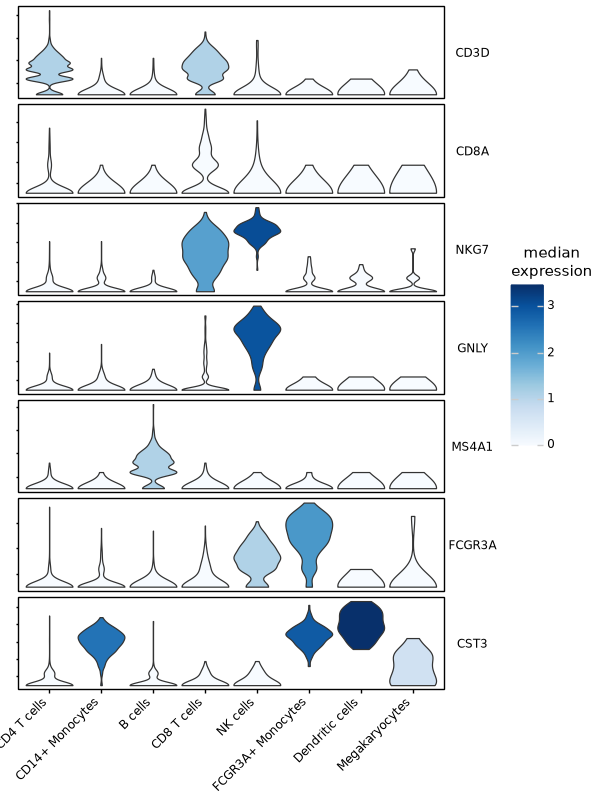
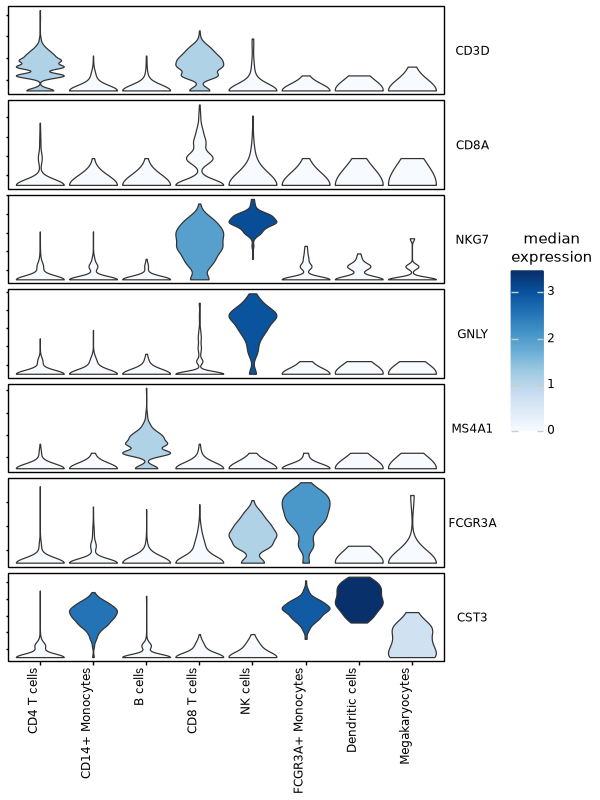
fix(stacked violin): vertical group labels by default so the first label is never clipped; state the swap_axes layout
- default rotation 90 (as in Scanpy); test asserts the first x label is inside the canvas
- docstring, changelog and decisions.md now say genes-as-rows is Scanpy's swap_axes=True layout
- regenerated docs/images/stacked_violin.png

diff --git a/src/ggann/distributions.py b/src/ggann/distributions.py
@@ -896,16 +896,17 @@ def plot_stacked_violin(
     downsample: int | None = None,
     random_state: int | None = 0,
     log: bool = False,
-    rotation: float = 45,
+    rotation: float = 90,
     stripplot: bool = False,
     yticklabels: bool = False,
     cmap: str = "Blues",
 ):
     """Compact genes-as-rows violin grid across groups (``sc.pl.stacked_violin``).
 
-    Matches scanpy's encoding: genes are rows, groups run along x, and each violin
-    is filled by that group's **median** expression of the gene (``cmap``, shared
-    colour bar). Each row has its own y range and no y tick labels (``yticklabels``
+    Genes are rows and groups run along x, the layout of
+    ``sc.pl.stacked_violin(..., swap_axes=True)`` (Scanpy's default puts groups
+    as rows). As in Scanpy, each violin is filled by that group's **median**
+    expression of the gene (``cmap``, shared colour bar). Each row has its own y range and no y tick labels (``yticklabels``
     restores them), so many genes stay readable. ``downsample`` caps cells per
     group before the KDE; ``random_state`` controls which cells are retained and
     seeds the ``stripplot`` jitter.
@@ -932,8 +933,9 @@ def plot_stacked_violin(
         Downsampling and jitter seed; ``None`` is nondeterministic.
     log : bool
         Plot ``log1p(expression)``; zeros stay at zero.
-    rotation : float
-        Group-label angle in degrees.
+    rotation : float, default=90
+        Group-label angle in degrees. Vertical labels, as in Scanpy, never
+        hang past the left edge; at smaller angles a long first label can.
     stripplot : bool
         Overlay the individual cells as jitter.
     yticklabels : bool

diff --git a/tests/test_release_dist.py b/tests/test_release_dist.py
@@ -570,3 +570,21 @@ def test_VERIFY4_tracksplot_missing_group_not_visible(adata):
     legend_text = " ".join(t.get_text() for t in fig.findobj(lambda o: hasattr(o, "get_text")))
     assert "nan" not in legend_text.lower().split()
     plt.close(fig)
+
+
+def test_stacked_violin_first_x_label_inside_canvas(adata):
+    # hidden y labels must not take away the space the first rotated x label needs
+    from matplotlib.backends.backend_agg import FigureCanvasAgg
+
+    genes = ["CD3D", "NKG7", "CST3"]
+    fig = ag.plot_stacked_violin(adata, genes, "bulk_labels", use_raw=True).draw()  # default 90
+    canvas = FigureCanvasAgg(fig)
+    canvas.draw()
+    renderer = canvas.get_renderer()
+    left = min(
+        t.get_window_extent(renderer).x0
+        for ax in fig.axes
+        for t in ax.get_xticklabels()
+        if t.get_visible() and t.get_text()
+    )
+    assert left >= 0

diff --git a/CHANGELOG.md b/CHANGELOG.md
@@ -91,8 +91,8 @@ Check these before re-running a figure made with a pre-release build.
 - Defaults follow Scanpy: rank-genes `n_genes=10`, rank matrixplot
   `standard_scale=None`, `plot_variance_ratio(n_pcs=30, log=False)`,
   `plot_highest_expr_genes` 30 genes.
-- `plot_stacked_violin` fills each violin by group median expression and uses
-  Scanpy's orientation.
+- `plot_stacked_violin` fills each violin by group median expression, draws
+  genes as rows (Scanpy's `swap_axes=True` layout) and labels groups at 90°.
 - Without stored `adata.uns["<key>_colors"]`, discrete scales use Scanpy's
   default palette instead of plotnine hues.
 - Inside `style_context`, `plot_features` and `plot_density` default to the
